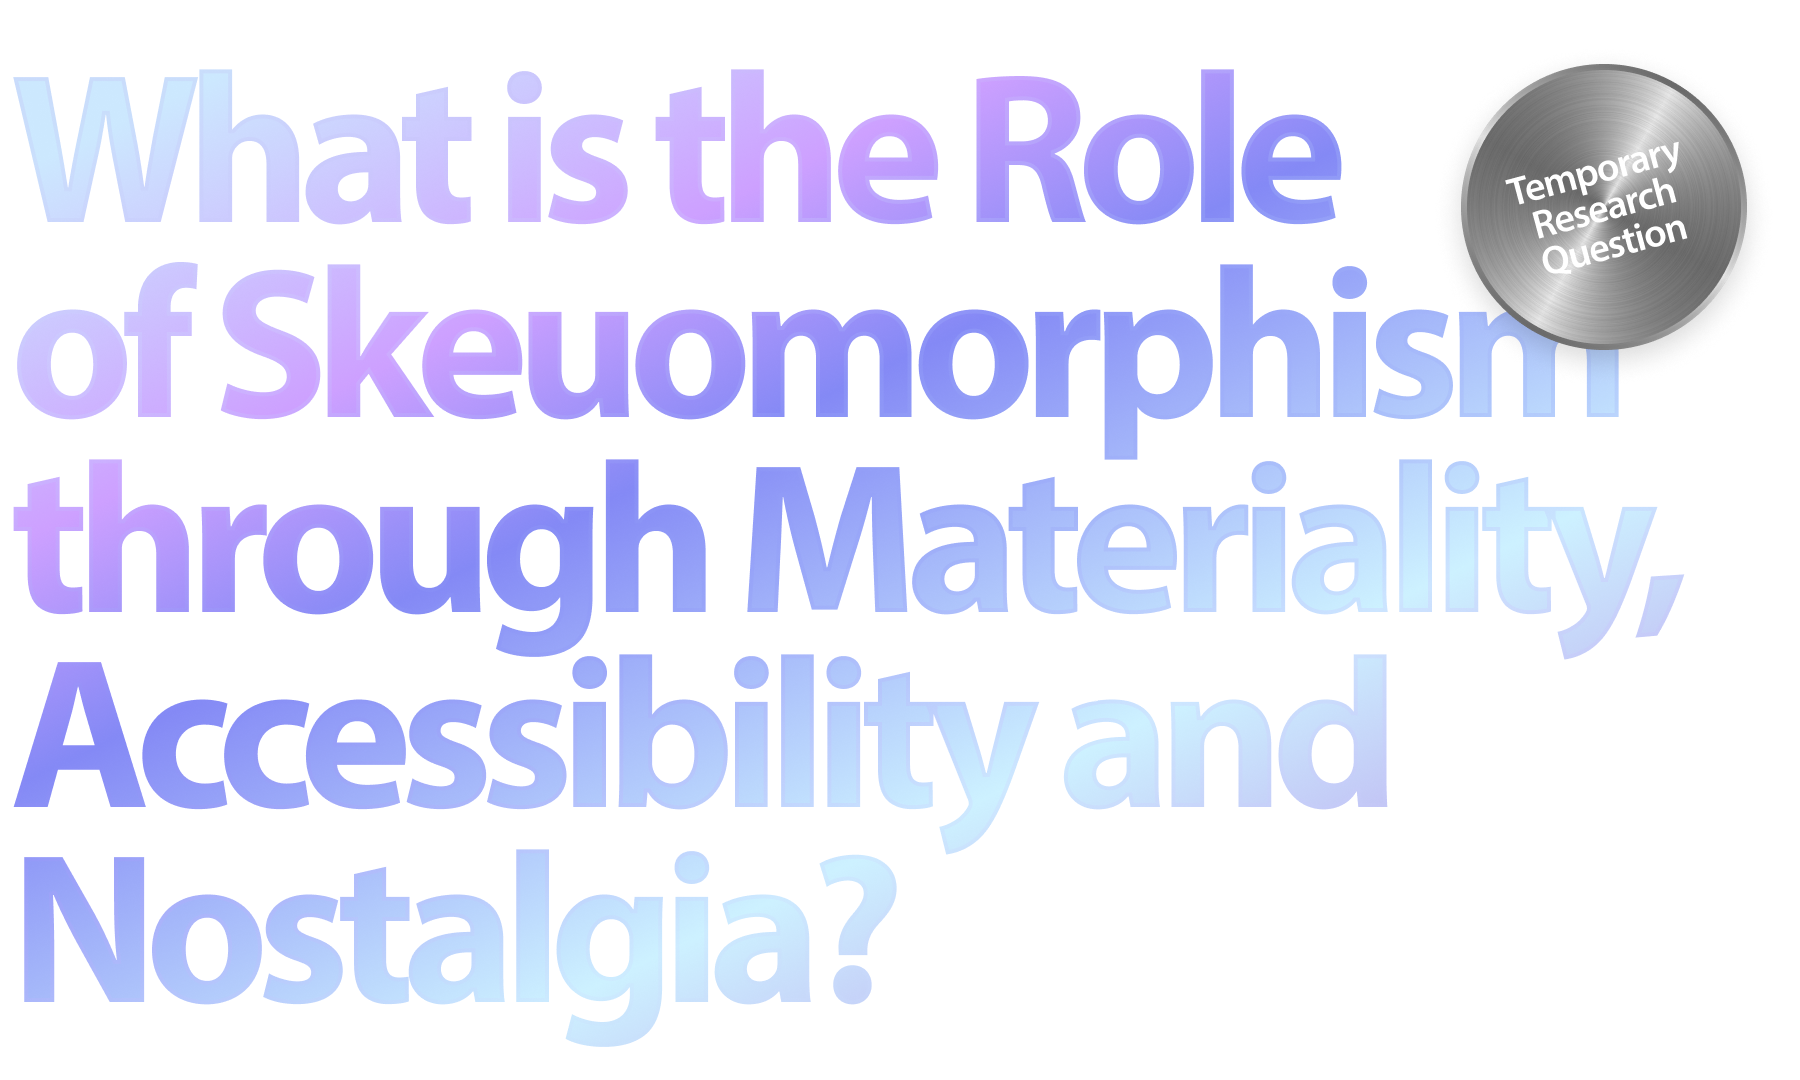
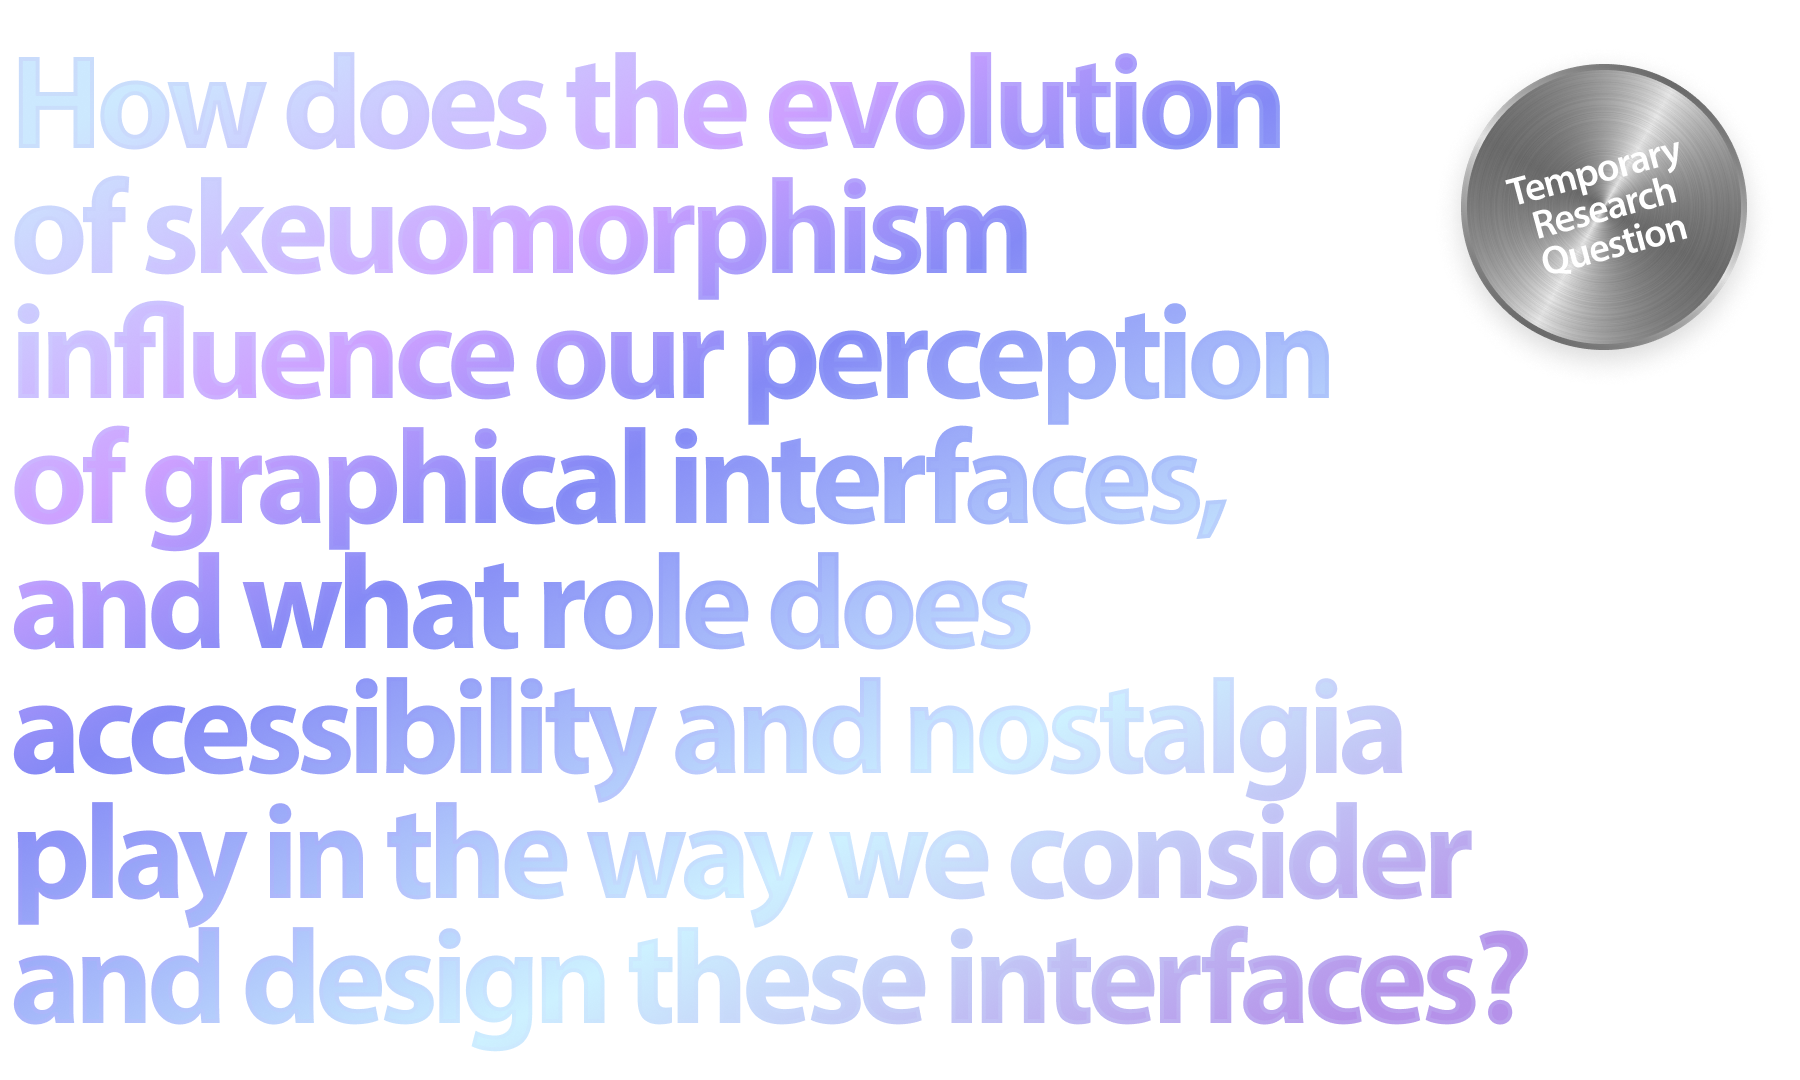
Small Changes after Nicola's Feedback

diff --git a/D_OUTPUT/WRITING/2024-10-09/241009_Skeuomorphism.md b/D_OUTPUT/WRITING/2024-10-09/241009_Skeuomorphism.md
@@ -1,0 +1,145 @@
+# Preface
+I've always been curious and interested of graphical user interfaces. I find it fascinating designing interfaces that are the point of contact and connection of humans with their machines.
+
+
+# Introduction
+
+## A Dictionary
+GUI: Graphical User Interface
+UI: User Interface
+UX: User Experience
+GPU: Graphical Processing Unit
+OEM: Original Equipment Manufacturer
+OS: Operating System
+
+## What is Skeuomorphism?
+Way before screens, Skeuomorphism traces its roots from material objects and artistic movements like Art Nouveau, but it was only quoted on computers starting from the 1980s. Skeuomorphism is considered to be the use of metaphors of real life to mimic the real-world objects represented. One of the most common example that is always given is "the iPhone's old visual interface".
+
+## Research Question
+It's with that fascination into user interfaces that I wanted to revisit Skeuomorphism, maybe out of Nostalgia, but more importantly investigate the emotions of people who used these interfaces and what they think of them now. I'm also thinking about the future, as we're recently seeing a return to three dimension styling to user interfaces. So, how does the evolution of skeuomorphism influence our perception of graphical interfaces, and what role does accessibility and nostalgia play in the way we consider and design these interfaces?
+
+# Context
+## A small bit of History
+In a small research lab down in Palo Alto, was an all-in-one desktop computer prototype that amazed anyone who had the chance to see it. The few who had the chance to meet this machine, took the main idea and ran with it to create a new generation of personal computers.
+That computer was the Xerox Alto, imagined at Xerox's PARC, and considered by many the first computer to feature a GUI, a Graphical User Interface, that almost turned the world upside down.
+Using common language, the portrait monitor displays text, small icons and allowed the use of multiple programs at the same time, in what was called the Desktop, just like the one at work, with items on it. The Alto is the first computer to use a WYSIWYG, What You See Is What You Get, text editor and bitmap display, meaning that you could print exactly what was displayed on the screen. Steve Jobs and Bill Gates both went to see this marvel and went on to copy the idea for their respective software, with Apple unveiling the Lisa in 1983 and the Macintosh in 1984. As for Microsoft, the first version of the Windows OS, operating system, was announced in 1983 as a GUI add-on for MS-DOS, but later came out as a standalone OS in 1985 and was licensed by PC manufacturers, mainly IBM.
+
+In 1988, Apple filed a lawsuit against Microsoft and Hewlett-Packard for using visual GUI elements similar to Apple's Lisa and Macintosh OSs. Seeing this lawsuit, Xerox also filed one against Apple alleging that the Macintosh's GUI was heavily based on the Xerox Alto's OS.
+After 4 years and an unsuccessful appeal to the Supreme Court, the United States Court of Appeals for the Ninth Circuit dismissed. Claiming that "Apple cannot get patent-like protection for the idea of a graphical user interface, or the idea of a desktop metaphor which concededly came from Xerox. It can, and did, put those ideas together creatively with animation, overlapping windows, and well-designed icons; but it licensed the visual displays which resulted."
+
+From that point on, GUIs kind of became open-source, in a way that nobody could copyright the famous desktop metaphor. This led to the popularisation of personal computers and the internet coming at the same time.
+
+At the 2000 Macworld Conference and Expo in San Francisco, Steve Jobs announced a complete reengineering and redesign of MacOS calling it MacOS X (or 10). A new base and architecture, that comes with a new design language called Aqua. During the event, Jobs stated that "it's liquid, one of the design goals was when you saw it you wanted to lick it". Breaking up from the gray, pixelated and static design of the 1990s, Aqua was about droplet-like components, reflections, translucency, depth and life-like material textures.
+
+This move started a new trend, for a new decade. Aqua was possible thanks to advancements in technologies like improved processor speeds and more importantly GPUs that allowed the display of life-like shadows, three dimension effects, animations and better anti-aliasing fonts. The 2000s saw the Apple UI design and MacOS X's versions evolve into more refined and less flashy visuals till the 2010s, with Microsoft also jumping into the same train in 2001 with Windows XP, followed by Windows Vista (and its development hell with Codename Longhorn) and finally Windows 7. At the same time, linux-based OSs were growing and more and more started incorporating Skeuomorphic elements like Ubuntu.
+
+But before the 2010s ended, Apple unveiled it's most successful device after the Macintosh, based on MacOS X's design language; the iPhone. Although not being the first smartphone, it brought a lot of the desktop's Skeuomorphism language to the pocket, with a finger-friendly touch interface but also a rethinking of mobile phone interactions. In 2007, the landscape of mobile phones was pretty crowded. Many OEMs were fighting in a booming market with clunky, slow, unresponsive and not touch friendly phones, until Apple came and proposed a vision of what smartphones should be. This vision was later taken by multiple OEMs and made it their own for the years to come, leading to a wide spectrum of skeuomorphic mobile GUIs, from Google, Samsung, HTC, Motorola and others all creating different looks on top of the Android OS.
+
+In 2006, Microsoft released the Zune, an mp3 player created to take on the Apple iPod. The Zune was different, and made use of lowercase typography, a grid and monochromatic font colors. But Microsoft only went full Flat Design on it's modern new mobile OS, Windows Phone 7, bringing a fresh take on mobile GUIs and differentiating themselves from the competition, fully breaking up from the Skeuomorphic 3D visual style they've called Windows Aero. Windows Phone 7 was considered a breathe of fresh air by people as the Skeuomorphism Spectrum was beginning to become crowded. That style was called Metro (before changing its name because of a lawsuit over the name). Metro is based on the design principles of the Swiss Design style; clear typography, large texts, simplicity and was considered more artistic in a way. The interactivity part was also important as motion played a bigger role, all while being simple.
+
+In 2013, Apple announced it's 7th major version of the iPhone OS, iOS 7, that completely strips away the Skeuomorphic Design Language for a more Flat and Flashy Design Philosophy, with other OEMs following on the trend.
+
+Flat Design became the norm, providing clear, simple and efficient design to designers and app developers. It was a breathe of fresh air in general, and everything that came out using a skeuomorphic visual style at the time was considered out of date. Apple followed for MacOS X on 2014 by incorporating design elements from iOS 7.
+
+That is until the 2017 when Microsoft revived the movement announcing the Fluent Design System focusing on five key principles; Light, Depth, Motion, Material and Scale. But at the time, it was only an evolution of Microsoft's flat design.
+
+In 2020, Apple announced a new version for its Mac OS, reconciling with Skeuomorphism or a smart part of it by launching new icons and interfaces. Recently, iOS also received small hints of Skeuomorphism through some parts of the OS.
+
+## Methodology
+Mixing qualitative and quantitative surveys and interviews, I wanted to know how ordinary people think of Skeuomorphism in user interfaces. I started interviewing people (ordinary people and designers) for an hour, where we went back in time and used old technologies from more than ten years ago! Apart from that, I went on to post a survey on some Reddit groups to gather insights on people but also references.
+
+The interviews I first conducted consisted of asking people about their knowledge of Skeuomorphism, explaining it, comparing it to Flat Design, asking their opinion on both design styles and finally enquire them about their ideas for future GUIs or UIs in general.
+On the table in front of them, multiple diverse electronic devices that best represent the tech era. The devices were composed of two laptops and three smartphones, displaying a range of what I now call *The Spectrum of Skeuomorphic GUIs*.
+The next step was to make them choose one device from the table, turn it on and use it until they want to go to another one. While they're using it, I'm asking questions and guiding them to open some apps like Calendar, Notes, Media Player, ... All while prompting them for reactions and emotions.
+
+
+# Cases
+
+I need to organize all these cases, with the time they've been alive, dates, images, developers, company, etc.
+also note how did people use them
+
+## The Spectrum of Skeuomorphic GUIs
+Here's a visualization of all kinds of Skeuomorphic GUIs, as I've discovered there are lots of different designs and views of the Skeuomorphic Design movement.
+
+![](../../../C_DATA/SPECTRUM/The_Spectrum_of_Skeuomorphic_GUIs_241001.canvas)
+
+## Windows Aero
+
+![](../../../C_DATA/IMAGES/VistaBeta_Aero.png)
+
+Introduced with Windows Vista in 2005, Aero was a complete redesign of the Windows interface, replacing Windows XP's Luna theme. According to Microsoft, Aero stands for "Authentic, Energetic, Reflective and Open". Aero goes way beyond what Luna achieved, in terms of visuals, performance and animations.
+
+![](../../../C_DATA/IMAGES/XP_LunaBlue.png)
+### Visually
+People who used this OS, felt it was so glossy and looked shiny. They felt that the glossy and transparency elements gave the UI a light look to it. The most visible element on a desktop OS is the wallpaper, and the default wallpaper that comes with Vista references the northern lights. This can be considered skeuomorphism, in a way. And then comes the Desktop UI elements like the taskbar at the bottom, the icons all over the wallpaper and the widgets on the right.
+
+The taskbar looks shiny with its dark and glossy look. The Windows button all the way to the left has this glow to it that resembles a real button. And when you press it, it glows brighter signaling a feedback to the user, just like a real button.
+
+![](../../../C_DATA/IMAGES/VistaRTM_Aero.png)
+
+When opening windows and programs, most of the time the title bar is translucent, giving the impression that windows are slabs of glass. Putting windows on top of other windows shows the translucency and blur that is happening. Just like putting many slabs of glass on top of each other. Is this a skeuomorph of windows?
+
+![](../../../C_DATA/IMAGES/Aero_Example.png)
+
+With this new visual style came a new typography that was developed especially for this new era. Developed by Steve Matteson at Monotype, Segoe replaces Franklin Gothic and Tahoma that Microsoft was using for its branding and UI. This new typeface characterizes itself as a humanist font family (Based on the VoxATypI classification). Segoe also worked great on the brand new LCD displays at the time.
+
+![](../../../C_DATA/IMAGES/SegoeUI.png)
+## MacOS Aqua
+
+![](../../../C_DATA/IMAGES/MacOSX_Aqua_2.jpg)
+
+Introduced with the tenth version of MacOS in 2000, Aqua was also a complete redesign of the MacOS interface. It was originally based on water.
+
+![](../../../C_DATA/IMAGES/MacOSX_Aqua.jpg)
+
+## Visual
+Glossy Elements, Textiles, Metal, Wood, Paper, ...
+Visually, Skeuomorphic GUIs stand out a lot.
+
+## Audio
+Sound Effects recreating real world sounds, helps with immersion.
+
+## Motion
+Movement and animations
+
+
+# Usability and Accessibility
+
+And here I will talk about my interviews, or reference them.
+
+## Metaphors
+In the 1980 and 1990s, metaphors were being discussed in Human Computer Interaction as a way of democratizing computers by using words everyone knew, mainly in business environments; Desktop, Folder, File, Trash Bin, ... A reason for that was that computers were initially work equipment, but at the same time these were also words everyone already got the concept of.
+
+Metaphors also benefit from mimeticism, as lots of icons and layouts mimic their real life counterparts.
+
+## Affordances
+"See that door handle? How do you know you have to pull it?"
+"Do you see the button on the blind's remote? How do you know you have to press it?"
+
+After explaining the concept of Affordances to the people I interviewed, many attested, without me asking, that phones and computers they use today have lost some affordances in their respective user interfaces. I couldn't disagree with them as multiple studies show that Skeuomorphism was winning in terms of accessibility. 
+
+But, same question as for the metaphors, how do you make current user interfaces intuitive when "everyone gets it now"? how do new generations tackle interactions with tech devices?
+
+
+# Nostalgia
+## Simpler Times
+We tend to think that "Before, things were always better".
+
+## Legacy
+How does Skeuomorphism's legacy influence today's UI design.
+
+## An Unrealized Future
+How Gen Z sees Skeuomorphism.
+
+
+# Conclusion
+## What's Next?
+AR? VR? Apple started incorporating some of it's design elements from the Vision Pro OS into its mobile OS UI.
+
+## Practical Project
+I don't know yet. :(
+
+
+---
+**References**
+1. Alan F. Blackwell. 2006. The reification of metaphor as a design tool. ACM Trans. Comput.-Hum. Interact. 13, 4 (December 2006), 490–530. https://doi.org/10.1145/1188816.1188820
